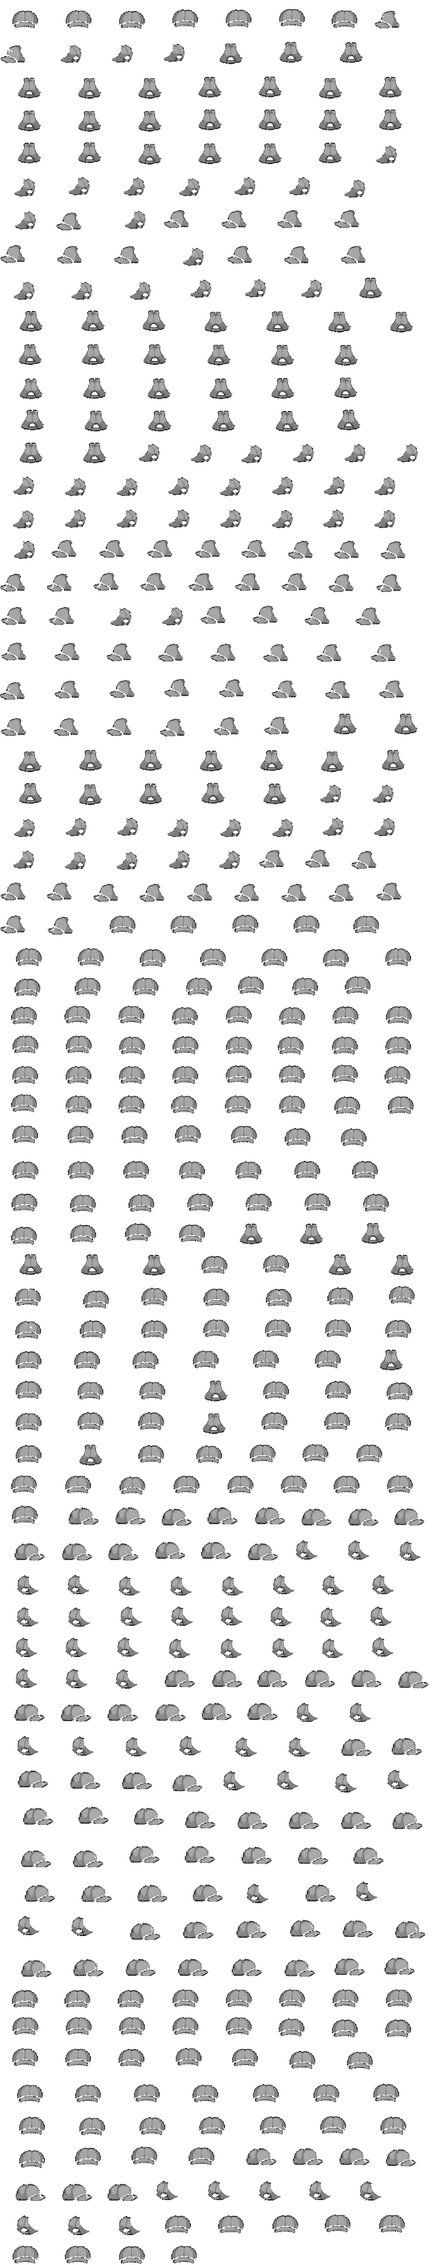
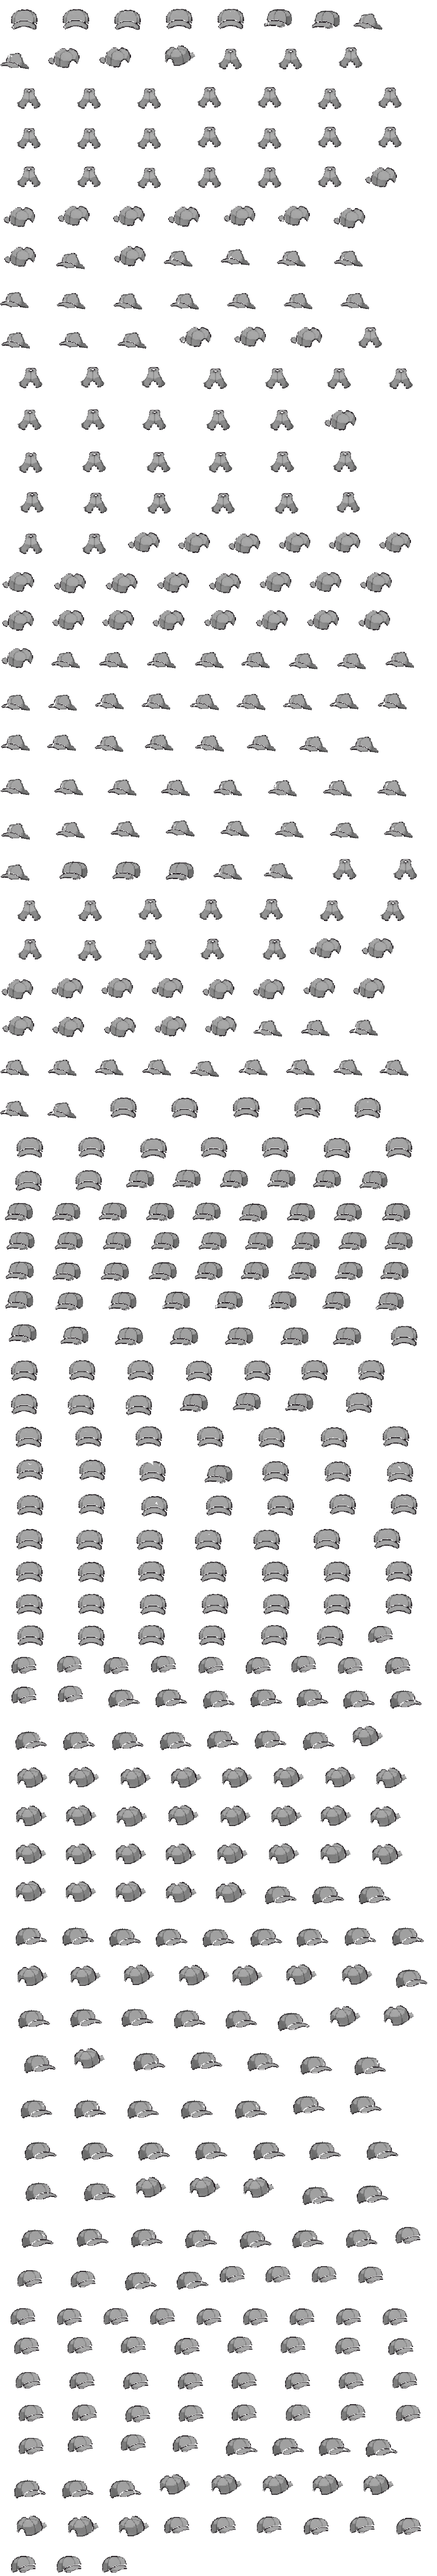
Buns' cap repainted with Pro on the final sheets; hats also hide hair hanging away from the face
Her cap is right from the front and sides with the buns hidden; the back view still
waits for a repaint on grids with the buns cut out (it stays out of the Gear tab).
A hat now hides hair below its edge that hangs away from the face (a bun seen
side-on), keeping hair next to skin. gear_key.py grids names its copies after the
output folder.

diff --git a/tools/pixelart/gear_key.py b/tools/pixelart/gear_key.py
@@ -3,7 +3,7 @@ turns what it painted into a layer the game draws over the kid (players/gear.js)
 
   python tools/pixelart/gear_key.py grids <kid> <out dir>
       grids of the kid's frames for Flow (frame_grids.py layout), with the shoes and shorts greyed and the
-      held ball painted back in, so nothing on the kid is near a key colour; also <kid>-mv-NN.jpg copies
+      held ball painted back in, so nothing on the kid is near a key colour; also <out dir name>-NN.jpg copies (name the dir after the kid)
       to upload under those names
   python tools/pixelart/gear_key.py build <kid> <item> <grids dir> <prefix>
       reads <prefix>-NN-k.img (named by match_grids.py), keeps the version of each grid that changed least
@@ -98,7 +98,7 @@ def grids(kid, out):
     # each move's frames together, so a whole move comes from one painting
     subprocess.run([sys.executable, f"{HERE}/frame_grids.py", tmp, out, "--moves"], check=True)
     for f in sorted(glob.glob(f"{out}/grid-[0-9][0-9].jpg")):
-        shutil.copy(f, f"{out}/{kid}-mv-{os.path.basename(f)[5:7]}.jpg")
+        shutil.copy(f, f"{out}/{os.path.basename(os.path.normpath(out))}-{os.path.basename(f)[5:7]}.jpg")
 
 
 # ---------- build ----------
@@ -243,8 +243,14 @@ def hide_hair_above(p, rect, sheet, regions):
     above = np.zeros((H, W), bool)
     above[:rows.max() - max(2, (rows.max() - rows.min()) // 5)] = True
     keep = rgba[..., 3] > 0
-    hair = body & (reg == HAIR) & above & ~keep
-    ring = ndimage.binary_dilation(hair, iterations=4) & body & (reg == 0) & above & ~keep
+    # hair below the hat's edge goes too where it hangs away from the face (buns, a bun at the back seen
+    # side-on); hair next to skin (sideburns, the hairline at the neck) stays
+    head = np.zeros((H, W), bool)
+    head[:rows.max() + (rows.max() - rows.min())] = True
+    skin = body & (reg == SKIN)
+    away = ~ndimage.binary_dilation(skin, iterations=6)
+    hair = body & (reg == HAIR) & ~keep & (above | (head & away))
+    ring = ndimage.binary_dilation(hair, iterations=4) & body & (reg == 0) & ~keep & (above | (head & away))
     part[hair | ring, 1] = 255
     m = keep | (part[..., 1] > 0)
     ys, xs = np.nonzero(m)
